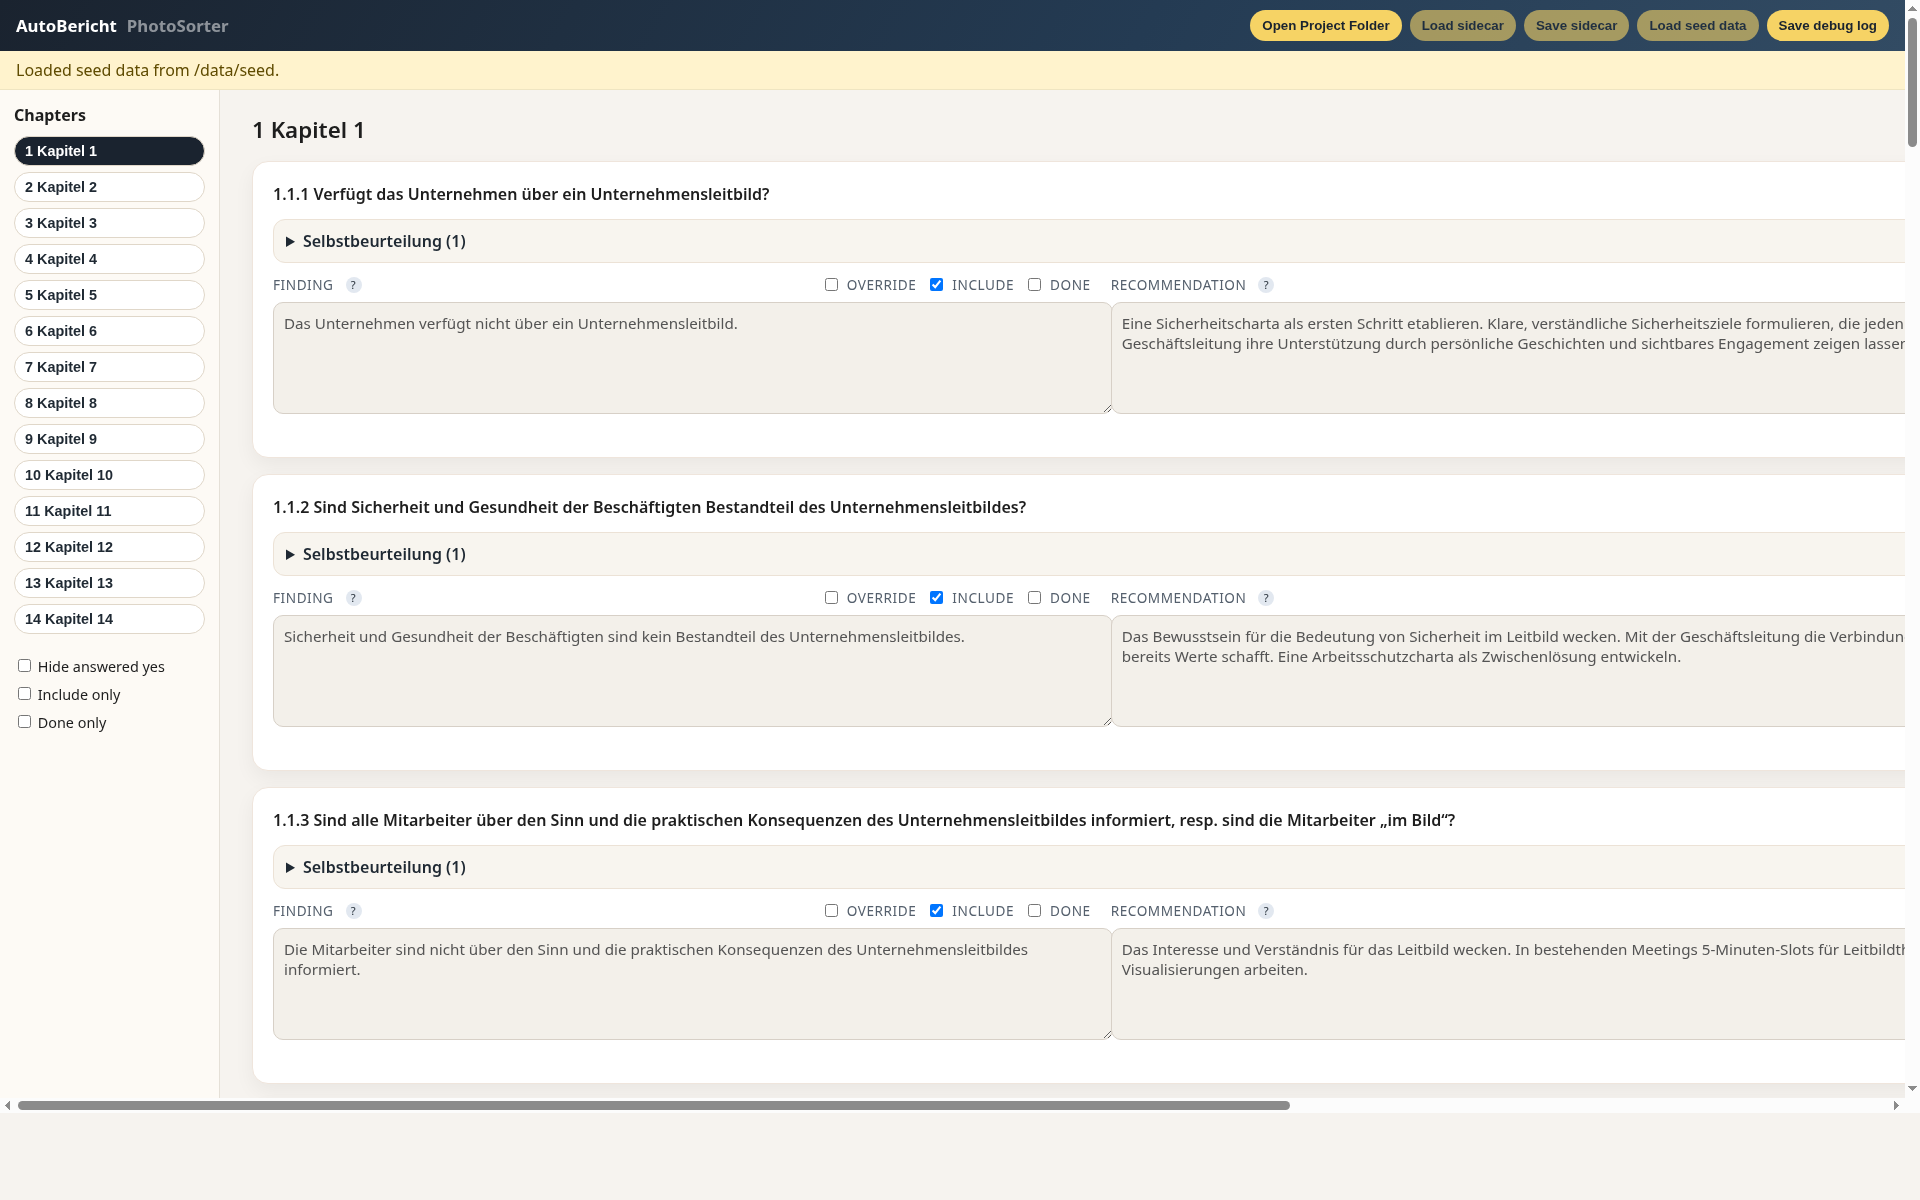
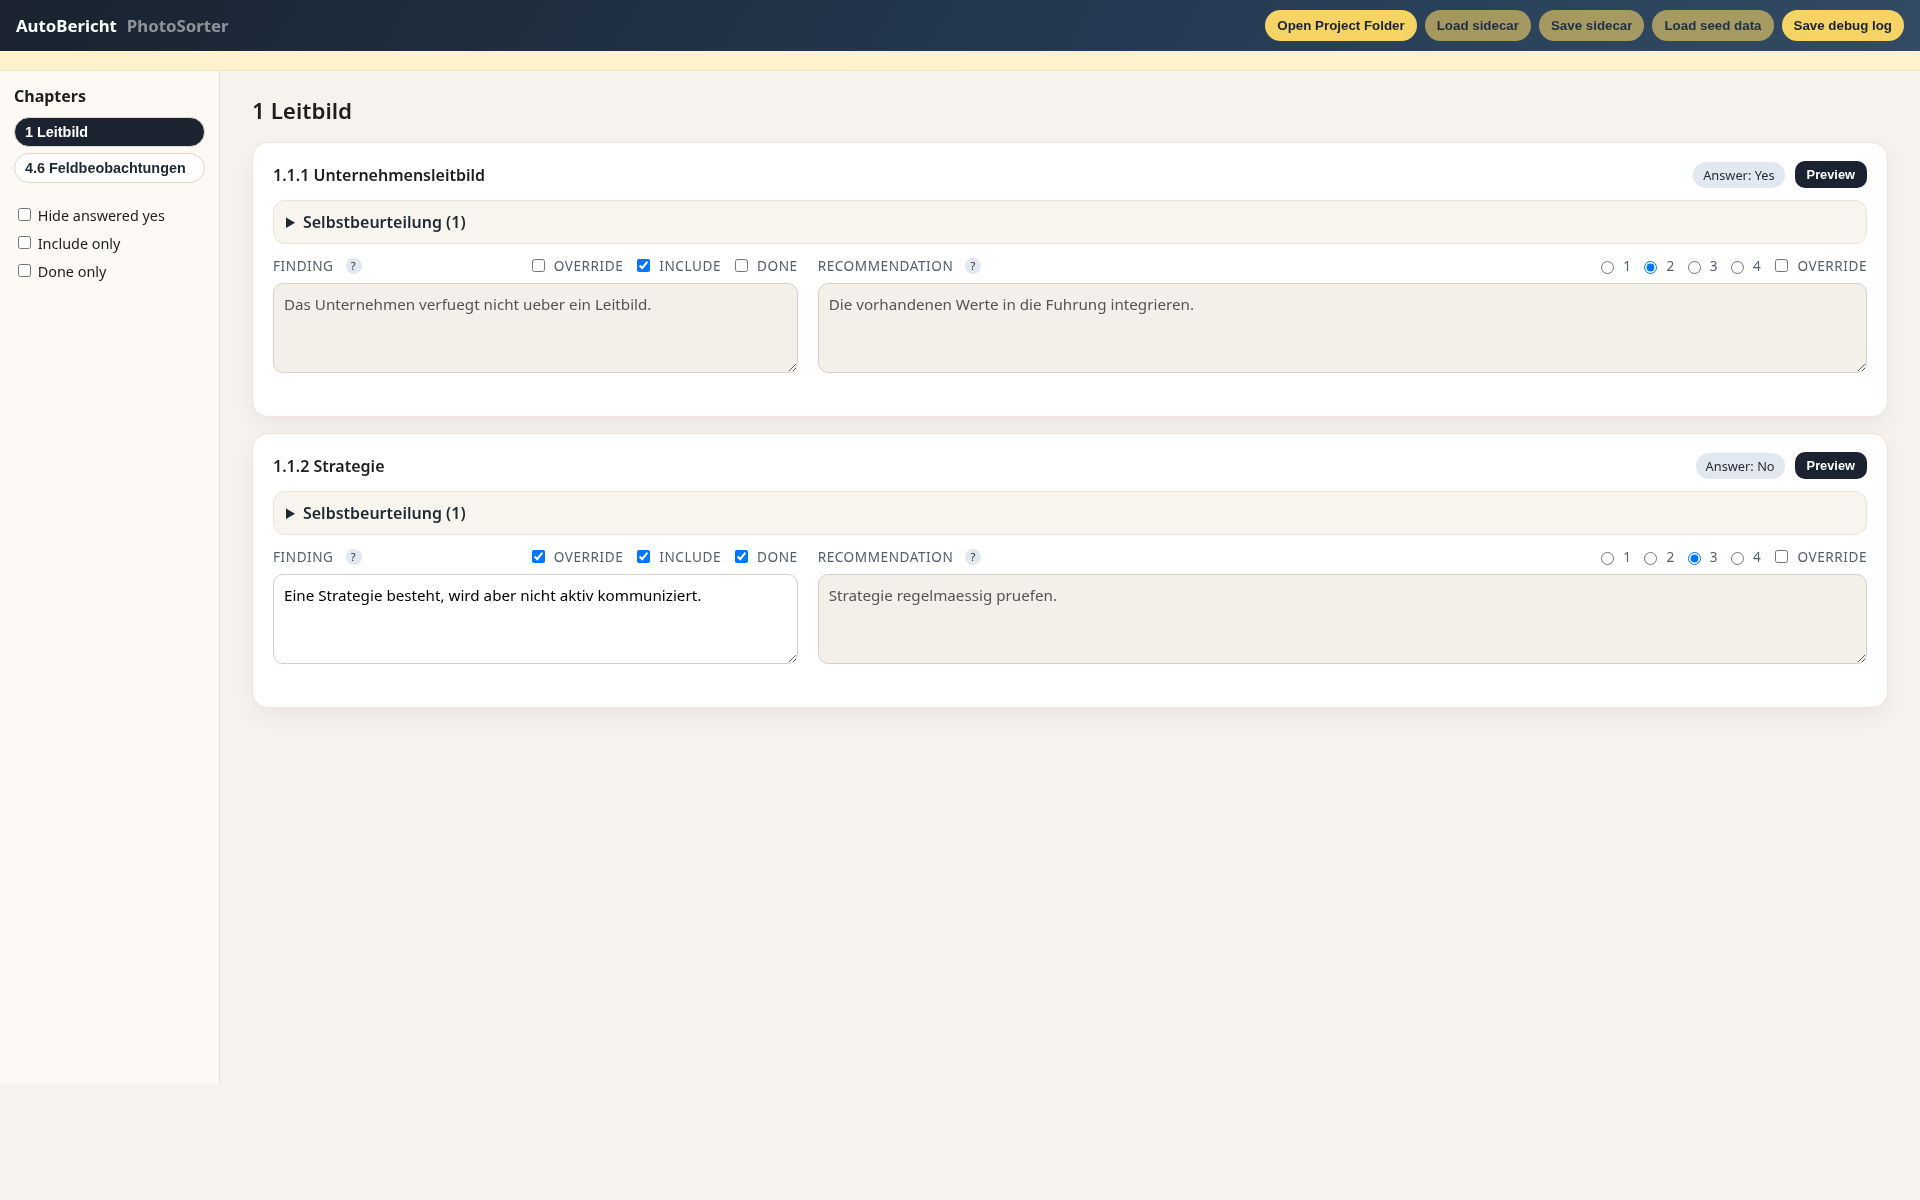
Fix AutoBericht horizontal overflow

diff --git a/AutoBericht/mini/style.css b/AutoBericht/mini/style.css
@@ -5,12 +5,20 @@
   color: #1e1e1e;
 }
 
+*,
+*::before,
+*::after {
+  box-sizing: border-box;
+}
+
 body {
   margin: 0;
+  overflow-x: hidden;
 }
 
 .app {
   min-height: 100vh;
+  width: 100%;
 }
 
 .app-header {
@@ -44,6 +52,7 @@ body {
   display: flex;
   gap: 8px;
   align-items: center;
+  flex-wrap: wrap;
 }
 
 button {
@@ -73,12 +82,14 @@ button[disabled] {
   display: grid;
   grid-template-columns: 220px 1fr;
   min-height: calc(100vh - 100px);
+  min-width: 0;
 }
 
 .sidebar {
   padding: 14px;
   background: #fdfaf5;
   border-right: 1px solid #e5e0d7;
+  min-width: 0;
 }
 
 .sidebar h2 {
@@ -111,6 +122,7 @@ button[disabled] {
 
 .content {
   padding: 24px 32px 48px;
+  min-width: 0;
 }
 
 .chapter-title {
@@ -236,6 +248,7 @@ button[disabled] {
 
 .field {
   margin-bottom: 12px;
+  min-width: 0;
 }
 
 .field label {
